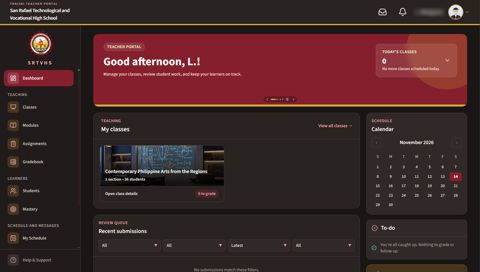
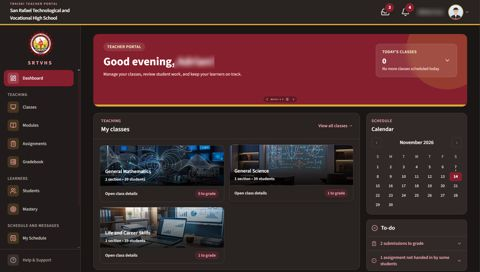
Use updated teacher screenshots in the TraiSki pop-up
New teacher dashboard and gradebook, plus assignments, mastery and
Peer Learning, with the teacher's and posters' names blurred.

diff --git a/src/data/profile.js b/src/data/profile.js
@@ -87,8 +87,11 @@ export const projects = [
       { name: 'student-dashboard', caption: 'Student dashboard: school news, subjects, calendar and tasks' },
       { name: 'student-modules', caption: 'A subject’s modules, grouped by term' },
       { name: 'student-assignments', caption: 'Assignments with start and due dates and scores' },
-      { name: 'teacher-dashboard', caption: 'Teacher dashboard with classes and recent submissions' },
+      { name: 'teacher-dashboard', caption: 'Teacher dashboard: classes, calendar and a to-do list' },
+      { name: 'teacher-assignments', caption: 'Every assignment, with how many students handed it in' },
       { name: 'teacher-gradebook', caption: 'Gradebook with class stats, Excel export and printing' },
+      { name: 'teacher-mastery', caption: 'Mastery: which competencies a class needs help with' },
+      { name: 'teacher-peer-learning', caption: 'Peer Learning: class discussions the teacher moderates' },
       { name: 'admin-dashboard', caption: 'Admin dashboard: what needs attention, plus school-wide numbers' },
       { name: 'admin-create-account', caption: 'Creating a student or teacher account' },
       { name: 'admin-classes', caption: 'Sections, subjects and enrollment in one place' },
